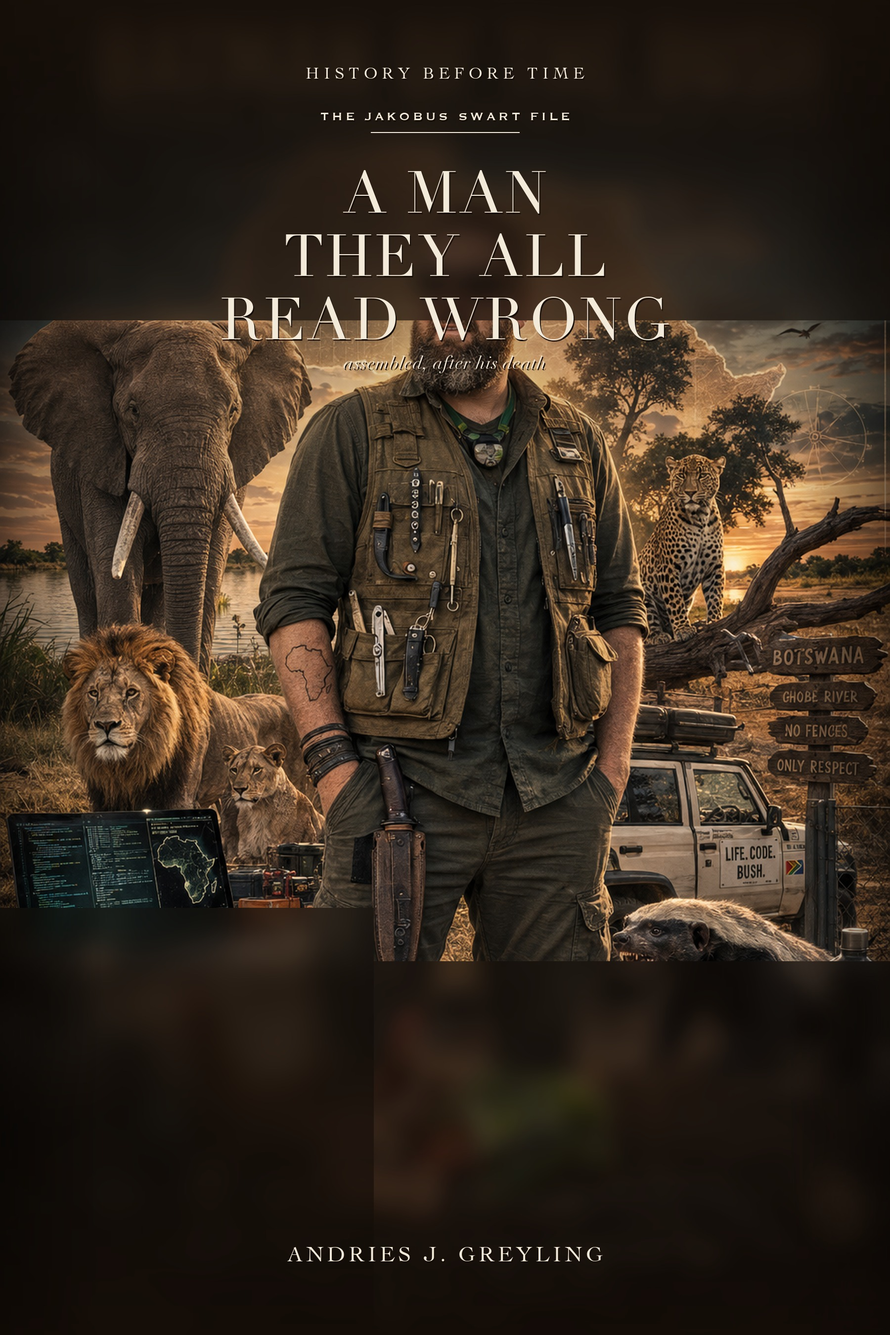
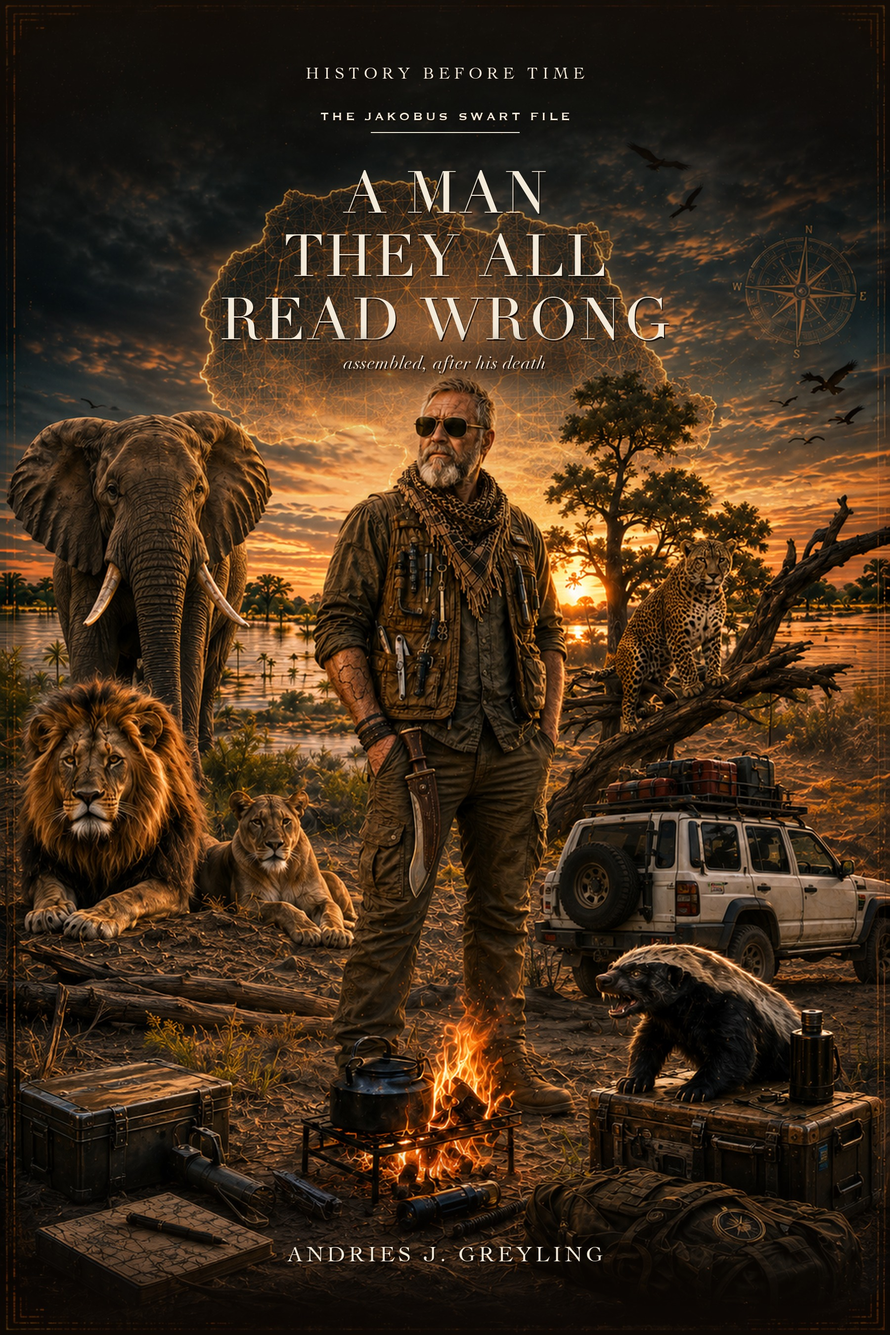
Jakobus File: publish new cinematic cover (savanna plate + house typography)
Installs the new cover-plate.png (African-savanna hero composite) and the
typeset cover rendered from it by make_cover.py. The plate + cover were built
earlier but sat uncommitted, so the live site still served the old cover —
commit them so pages.yml deploys the new one.

diff --git a/books/history-before-time/books/the-jakobus-file/design/make_cover.py b/books/history-before-time/books/the-jakobus-file/design/make_cover.py
@@ -11,7 +11,7 @@ from __future__ import annotations
 
 from pathlib import Path
 
-from PIL import Image, ImageDraw, ImageFont
+from PIL import Image, ImageDraw, ImageFilter, ImageFont
 
 HERE = Path(__file__).resolve().parent
 BOOK = HERE.parent
@@ -88,8 +88,23 @@ def main() -> None:
     for i, ln in enumerate(lines):
         draw_tracked(draw, cx, ty + i * lh, ln, f_title, 4, INK)
 
+    # Subtitle crosses the bright sunset glow behind the figure on this plate, so lay a soft
+    # local scrim band under it for legibility before drawing the italic.
     f_sub = font(DIDOT, 36, index=1)
-    draw_tracked(draw, cx, ty + 3 * lh + 10, "assembled, after his death", f_sub, 1, INK)
+    sub = "assembled, after his death"
+    sub_y = ty + 3 * lh + 10
+    sub_w = text_width(draw, sub, f_sub, 1)
+    band = Image.new("RGBA", (W, H), (0, 0, 0, 0))
+    bd = ImageDraw.Draw(band)
+    pad_x, pad_y = 60, 14
+    bd.rounded_rectangle(
+        [cx - sub_w / 2 - pad_x, sub_y - pad_y, cx + sub_w / 2 + pad_x, sub_y + 48 + pad_y],
+        radius=26, fill=(18, 11, 6, 120),
+    )
+    band = band.filter(ImageFilter.GaussianBlur(18))
+    img = Image.alpha_composite(img, band)
+    draw = ImageDraw.Draw(img)
+    draw_tracked(draw, cx, sub_y, sub, f_sub, 1, INK)
 
     f_auth = font(COCHIN, 44)
     draw_tracked(draw, cx, int(H * 0.93), "ANDRIES J. GREYLING", f_auth, 7, INK)
